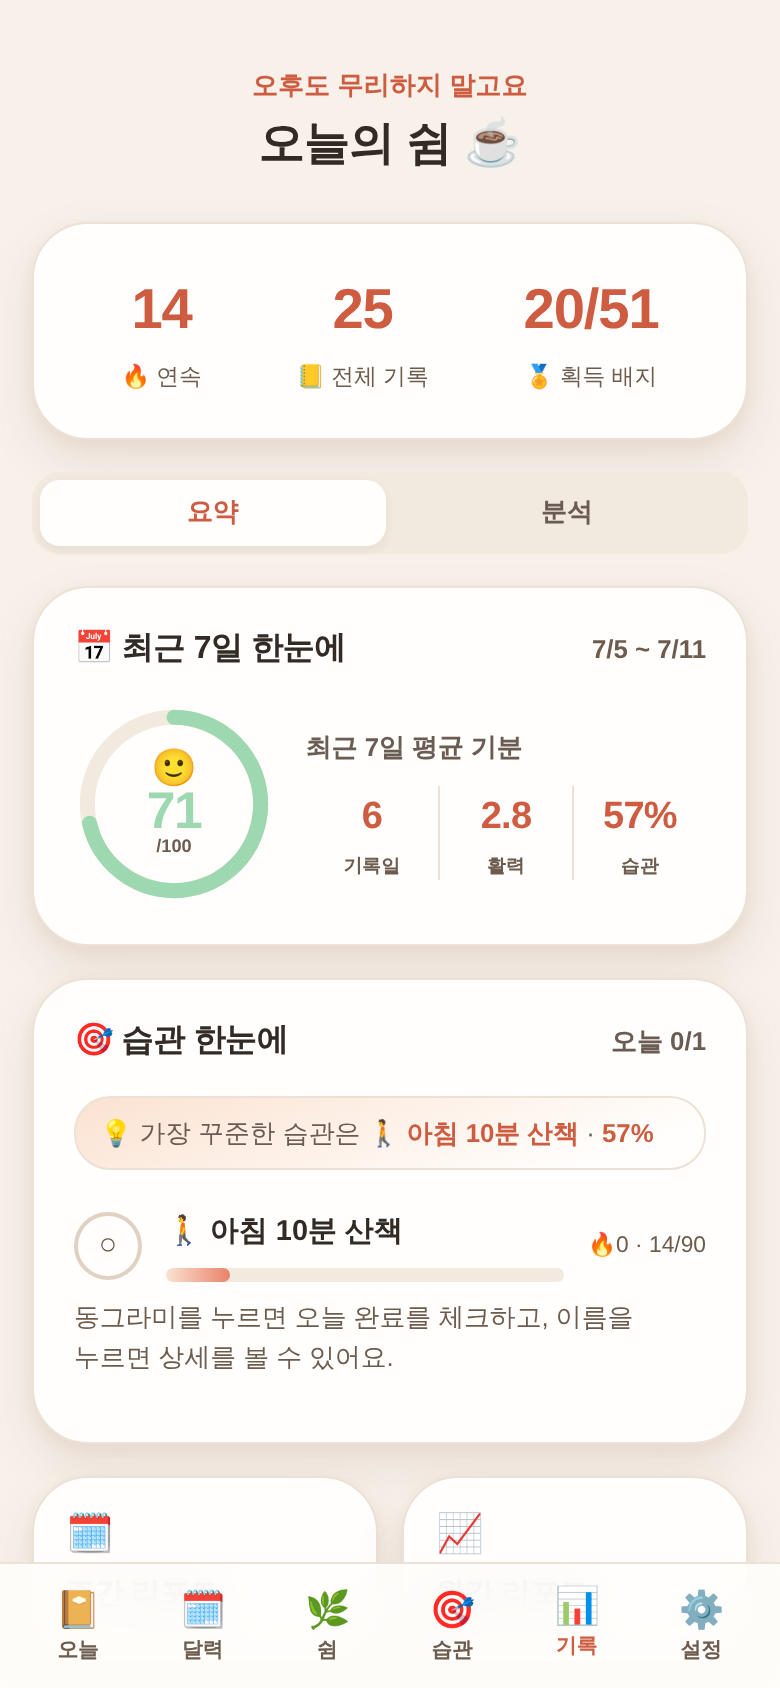
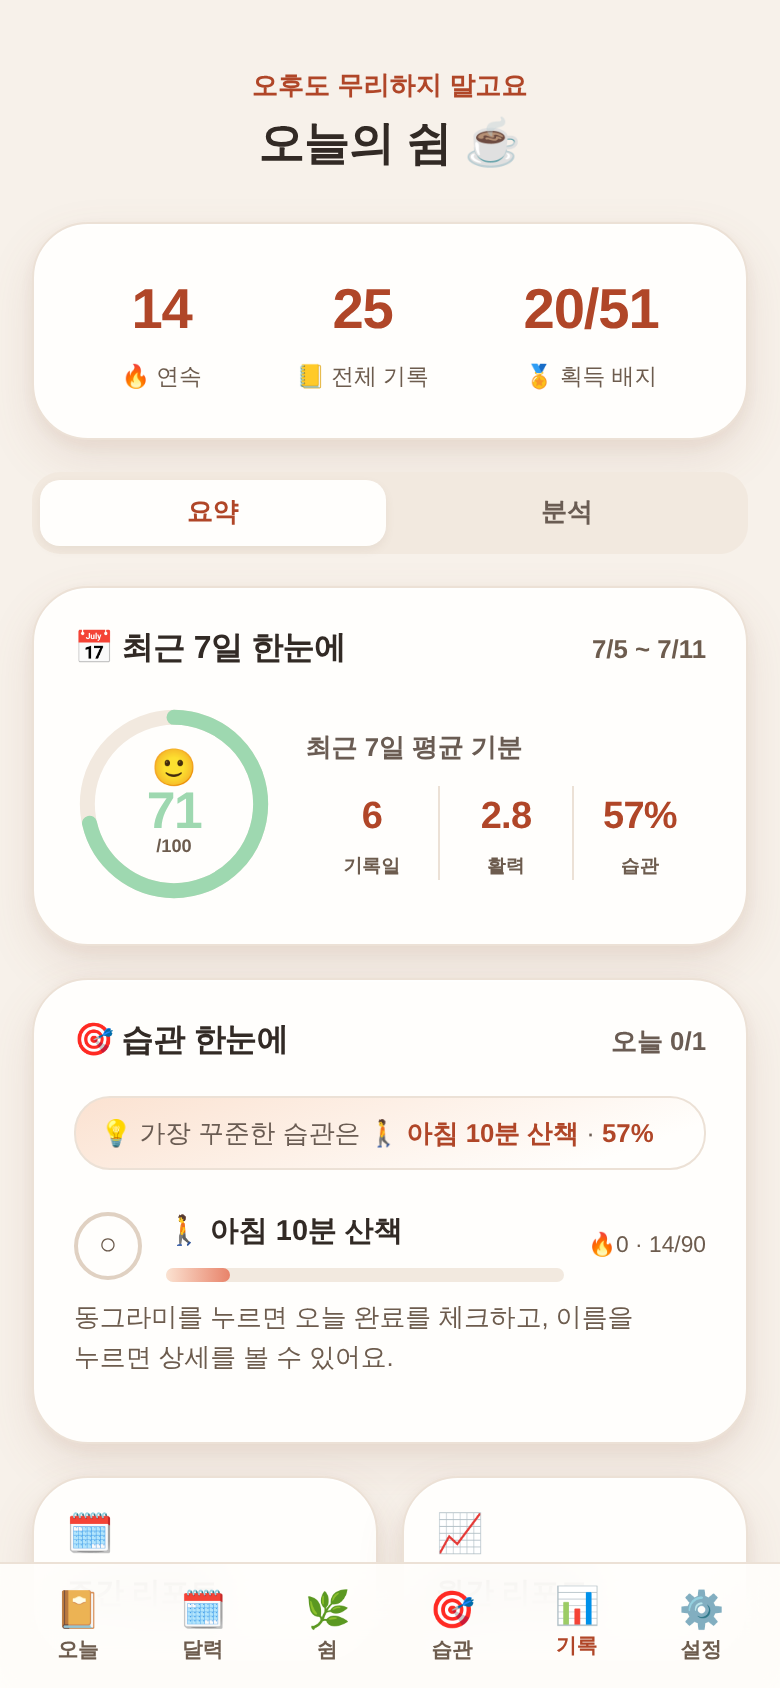
접근성 2차: 오버레이 스캔 + 성공·위험 텍스트 색 AA 충족 (v148)
여정·명상·리포트 오버레이까지 axe 스캔을 확장한 결과, 리포트
KPI 델타(▲/▼)에 쓰이는 --success/--danger가 라이트·차분 테마에서
텍스트 대비 미달(2.7~3.5:1). 텍스트 용도 4.5:1 이상으로 조정:
- 라이트: success #5ea384→#3a7154 · danger #d4695f→#b0453d
- 차분:   success #4f9d86→#38775f · danger #cf7b72→#9e5147
- 다크는 이미 충족(6.3~7.8:1) — 변경 없음
재스캔: 탭 4종 × 오버레이 3종 × 두 테마 모두 위반 0건.
스토어 스크린샷 3종도 새 토큰으로 재생성.

Claude-Session: https://claude.ai/code/session_01BKSXzvx7JnDsncL3siULuh

diff --git a/style.css b/style.css
@@ -38,8 +38,8 @@
   --accent: #e8836a;
   --accent-2: #fbe2d1;
   --accent-deep: #b04628; /* 작은 글자에도 4.5:1 이상(WCAG AA) — 배경 f2e9df에서도 4.66 */
-  --success: #5ea384;
-  --danger: #d4695f;
+  --success: #3a7154; /* ▲텍스트로도 4.5:1 이상(WCAG AA, 배경 f2e9df 포함) */
+  --danger: #b0453d;  /* ▼텍스트로도 4.5:1 이상 */
   --energy: #4fbfa6;
   --ring: rgba(205, 92, 65, 0.18);
 
@@ -71,8 +71,8 @@
   --accent: #5fb6a3;
   --accent-2: #cdebe3;
   --accent-deep: #27745f; /* WCAG AA — 밝은 배경들에서 4.6:1 이상 */
-  --success: #4f9d86;
-  --danger: #cf7b72;
+  --success: #38775f; /* 텍스트 용도 4.5:1 이상(WCAG AA) */
+  --danger: #9e5147;  /* 텍스트 용도 4.5:1 이상 */
   --energy: #e79a52;
   --ring: rgba(47, 138, 118, 0.16);
   --blob-a: #c4e6dd; --blob-b: #aedbe6; --blob-c: #dcebcd;

diff --git a/index.html b/index.html
@@ -10,7 +10,7 @@
   <meta name="mobile-web-app-capable" content="yes" />
   <meta name="apple-mobile-web-app-status-bar-style" content="default" />
   <meta name="apple-mobile-web-app-title" content="오늘의 쉼" />
-  <meta name="app-version" content="v147" />
+  <meta name="app-version" content="v148" />
   <link rel="manifest" href="manifest.json" />
   <link rel="apple-touch-icon" href="apple-touch-icon.png" />
   <title>오늘의 쉼 · 나를 위한 에너지 충전소</title>

diff --git a/sw.js b/sw.js
@@ -1,5 +1,5 @@
 // 오늘의 쉼 — 서비스워커 (오프라인 캐시)
-const CACHE = "oneul-shim-v147";
+const CACHE = "oneul-shim-v148";
 // 핵심 자산만 precache. 큰 라이브러리(cytoscape 등)는 런타임 캐시(처음 쓸 때 fetch가 저장)로 둬서
 // install이 무거워지거나 한 파일 실패로 업그레이드가 막히는 것을 방지.
 const ASSETS = [
